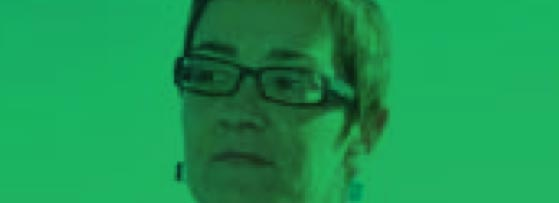
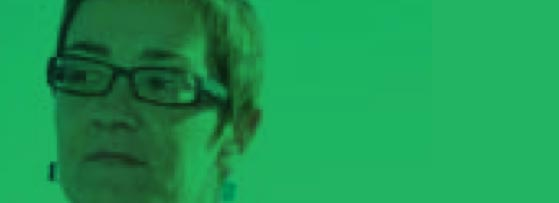
Añadir imagen y nombre el la caja de salutaciones

diff --git a/css/estilos.css b/css/estilos.css
@@ -77,12 +77,12 @@ section .secciones{margin:0 10px;}
 /* line 35 : /Users/jordiimac/Documents/FQU/css/bp1.styl */
 
 @media -stylus-debug-info{filename{font-family:file\:\/\/\/Users\/jordiimac\/Documents\/FQU\/css\/bp1\.styl}line{font-family:\0000335}}
-section .secciones .salutaciones .titulo{color:rgba(0,0,0,0.5);font-size:.8em;font-weight:300;margin:10px 0;text-align:center;text-transform:uppercase;position:relative;}
+section .secciones .salutaciones .titulo{color:rgba(0,0,0,0.3);font-size:.8em;font-weight:300;margin:10px 0;text-align:center;text-transform:uppercase;position:relative;}
 
 /* line 43 : /Users/jordiimac/Documents/FQU/css/bp1.styl */
 
 @media -stylus-debug-info{filename{font-family:file\:\/\/\/Users\/jordiimac\/Documents\/FQU\/css\/bp1\.styl}line{font-family:\0000343}}
-section .secciones .salutaciones .titulo .linea{background:rgba(0,0,0,0.5);display:block;height:1px;position:absolute;top:10px;width:100%;z-index:1}
+section .secciones .salutaciones .titulo .linea{background:rgba(0,0,0,0.3);display:block;height:1px;position:absolute;top:10px;width:100%;z-index:1}
 
 /* line 51 : /Users/jordiimac/Documents/FQU/css/bp1.styl */
 
@@ -92,99 +92,76 @@ section .secciones .salutaciones .titulo .texto{background:#9fc1e0;padding:0 15p
 /* line 56 : /Users/jordiimac/Documents/FQU/css/bp1.styl */
 
 @media -stylus-debug-info{filename{font-family:file\:\/\/\/Users\/jordiimac\/Documents\/FQU\/css\/bp1\.styl}line{font-family:\0000356}}
-section .secciones .salutaciones .salutacion{margin:0 10px 15px K;width:auto;}
+section .secciones .salutaciones .salutacion{position:relative;width:auto;}
 
 /* line 59 : /Users/jordiimac/Documents/FQU/css/bp1.styl */
 
 @media -stylus-debug-info{filename{font-family:file\:\/\/\/Users\/jordiimac\/Documents\/FQU\/css\/bp1\.styl}line{font-family:\0000359}}
-section .secciones .salutaciones .salutacion .imagen,section .secciones .salutaciones .salutacion .texto{background:#fff;height:auto;padding:10px;width:100%;}
+section .secciones .salutaciones .salutacion .imagen{background-image:url("../img/salutacions/alcaldesa.jpg");background-position:0 0;background-repeat:no-repeat;background-size:100% auto;width:auto;height:100px;}
 
-/* line 65 : /Users/jordiimac/Documents/FQU/css/bp1.styl */
+/* line 66 : /Users/jordiimac/Documents/FQU/css/bp1.styl */
 
-@media -stylus-debug-info{filename{font-family:file\:\/\/\/Users\/jordiimac\/Documents\/FQU\/css\/bp1\.styl}line{font-family:\0000365}}
-section .secciones .salutaciones .salutacion .imagen h2,section .secciones .salutaciones .salutacion .texto h2{color:#939393;font-size:1.2em;font-style:italic;font-weight:bigger;padding:0 0 10px;text-align:center;text-transform:uppercase}
+@media -stylus-debug-info{filename{font-family:file\:\/\/\/Users\/jordiimac\/Documents\/FQU\/css\/bp1\.styl}line{font-family:\0000366}}
+section .secciones .salutaciones .salutacion .imagen:after{color:#fff;content:'Núria Balagué Raga';font-style:italic;text-shadow:0 0 1px rgba(0,0,0,0.8);position:absolute;right:10px;top:5px}
 
-/* line 73 : /Users/jordiimac/Documents/FQU/css/bp1.styl */
+/* line 74 : /Users/jordiimac/Documents/FQU/css/bp1.styl */
 
-@media -stylus-debug-info{filename{font-family:file\:\/\/\/Users\/jordiimac\/Documents\/FQU\/css\/bp1\.styl}line{font-family:\0000373}}
-section .secciones .salutaciones .salutacion .imagen h3,section .secciones .salutaciones .salutacion .texto h3{border-top:1px solid rgba(147,147,147,0.3);color:#939393;font-size:.8em;font-weight:300;padding:5px 0 10px 0;text-align:center}
+@media -stylus-debug-info{filename{font-family:file\:\/\/\/Users\/jordiimac\/Documents\/FQU\/css\/bp1\.styl}line{font-family:\0000374}}
+section .secciones .salutaciones .salutacion .texto{background:#fff;height:auto;padding:10px;width:100%;}
 
-/* line 81 : /Users/jordiimac/Documents/FQU/css/bp1.styl */
+/* line 79 : /Users/jordiimac/Documents/FQU/css/bp1.styl */
 
-@media -stylus-debug-info{filename{font-family:file\:\/\/\/Users\/jordiimac\/Documents\/FQU\/css\/bp1\.styl}line{font-family:\0000381}}
+@media -stylus-debug-info{filename{font-family:file\:\/\/\/Users\/jordiimac\/Documents\/FQU\/css\/bp1\.styl}line{font-family:\0000379}}
+section .secciones .salutaciones .salutacion .texto h2{color:#939393;font-size:1.2em;font-style:italic;font-weight:bigger;padding:0 0 10px;text-align:center;text-transform:uppercase}
+
+/* line 87 : /Users/jordiimac/Documents/FQU/css/bp1.styl */
+
+@media -stylus-debug-info{filename{font-family:file\:\/\/\/Users\/jordiimac\/Documents\/FQU\/css\/bp1\.styl}line{font-family:\0000387}}
+section .secciones .salutaciones .salutacion .texto h3{border-top:1px solid rgba(147,147,147,0.3);color:#939393;font-size:.8em;font-weight:300;margin:0 5px;padding:5px 0 10px 0;text-align:center}
+
+/* line 96 : /Users/jordiimac/Documents/FQU/css/bp1.styl */
+
+@media -stylus-debug-info{filename{font-family:file\:\/\/\/Users\/jordiimac\/Documents\/FQU\/css\/bp1\.styl}line{font-family:\0000396}}
 .bg{background:#9fc1e0;height:100%;left:0;position:fixed;top:0;width:100%;z-index:-50}
-
-/* line 89 : /Users/jordiimac/Documents/FQU/css/bp1.styl */
-
-@media -stylus-debug-info{filename{font-family:file\:\/\/\/Users\/jordiimac\/Documents\/FQU\/css\/bp1\.styl}line{font-family:\0000389}}
-.invisible{display:none}
-
-/* line 91 : /Users/jordiimac/Documents/FQU/css/bp1.styl */
-
-@media -stylus-debug-info{filename{font-family:file\:\/\/\/Users\/jordiimac\/Documents\/FQU\/css\/bp1\.styl}line{font-family:\0000391}}
-.menu{background:#5a6171;border-radius:5px;bottom:0;color:#fff;left:0;margin:0 auto .4em auto;position:fixed;right:0;width:97%;z-index:20;animation:animacionMenu 1s 1;-webkit-animation:animacionMenu 1s 1;}
 
 /* line 104 : /Users/jordiimac/Documents/FQU/css/bp1.styl */
 
 @media -stylus-debug-info{filename{font-family:file\:\/\/\/Users\/jordiimac\/Documents\/FQU\/css\/bp1\.styl}line{font-family:\00003104}}
+.invisible{display:none}
 
-/* line 105 : /Users/jordiimac/Documents/FQU/css/bp1.styl */
+/* line 106 : /Users/jordiimac/Documents/FQU/css/bp1.styl */
 
-@media -stylus-debug-info{filename{font-family:file\:\/\/\/Users\/jordiimac\/Documents\/FQU\/css\/bp1\.styl}line{font-family:\00003105}}
-.menu .botones .botonMenu{display:inline-block;line-height:2em;text-align:center;vertical-align:bottom;width:32%;}
+@media -stylus-debug-info{filename{font-family:file\:\/\/\/Users\/jordiimac\/Documents\/FQU\/css\/bp1\.styl}line{font-family:\00003106}}
+.menu{background:#5a6171;border-radius:5px;bottom:0;color:#fff;left:0;margin:0 auto .4em auto;position:fixed;right:0;width:97%;z-index:20;animation:animacionMenu 1s 1;-webkit-animation:animacionMenu 1s 1;}
 
-/* line 111 : /Users/jordiimac/Documents/FQU/css/bp1.styl */
+/* line 119 : /Users/jordiimac/Documents/FQU/css/bp1.styl */
 
-@media -stylus-debug-info{filename{font-family:file\:\/\/\/Users\/jordiimac\/Documents\/FQU\/css\/bp1\.styl}line{font-family:\00003111}}
-.menu .botones .botonMenu a{color:#fff;text-decoration:none}
-
-/* line 114 : /Users/jordiimac/Documents/FQU/css/bp1.styl */
-
-@media -stylus-debug-info{filename{font-family:file\:\/\/\/Users\/jordiimac\/Documents\/FQU\/css\/bp1\.styl}line{font-family:\00003114}}
-.menu .botones .botonMenu .compartir{font-size:1.2em;}
-
-/* line 116 : /Users/jordiimac/Documents/FQU/css/bp1.styl */
-
-@media -stylus-debug-info{filename{font-family:file\:\/\/\/Users\/jordiimac\/Documents\/FQU\/css\/bp1\.styl}line{font-family:\00003116}}
-.menu .botones .botonMenu .compartir:after{content:'\e602';font-family:icono;font-size:.9em}
+@media -stylus-debug-info{filename{font-family:file\:\/\/\/Users\/jordiimac\/Documents\/FQU\/css\/bp1\.styl}line{font-family:\00003119}}
 
 /* line 120 : /Users/jordiimac/Documents/FQU/css/bp1.styl */
 
 @media -stylus-debug-info{filename{font-family:file\:\/\/\/Users\/jordiimac\/Documents\/FQU\/css\/bp1\.styl}line{font-family:\00003120}}
-.menu .botones .botonMenu .compartir:active{color:rgba(255,255,255,0.3)}
+.menu .botones .botonMenu{display:inline-block;line-height:2em;text-align:center;vertical-align:bottom;width:32%;}
 
-/* line 122 : /Users/jordiimac/Documents/FQU/css/bp1.styl */
+/* line 126 : /Users/jordiimac/Documents/FQU/css/bp1.styl */
 
-@media -stylus-debug-info{filename{font-family:file\:\/\/\/Users\/jordiimac\/Documents\/FQU\/css\/bp1\.styl}line{font-family:\00003122}}
-
-/* line 123 : /Users/jordiimac/Documents/FQU/css/bp1.styl */
-
-@media -stylus-debug-info{filename{font-family:file\:\/\/\/Users\/jordiimac\/Documents\/FQU\/css\/bp1\.styl}line{font-family:\00003123}}
-.menu .botones .botonMenu .mapa:after{content:'\e600';font-family:icono;font-size:1.2em}
-
-/* line 127 : /Users/jordiimac/Documents/FQU/css/bp1.styl */
-
-@media -stylus-debug-info{filename{font-family:file\:\/\/\/Users\/jordiimac\/Documents\/FQU\/css\/bp1\.styl}line{font-family:\00003127}}
-.menu .botones .botonMenu .mapa:active{color:rgba(255,255,255,0.3)}
+@media -stylus-debug-info{filename{font-family:file\:\/\/\/Users\/jordiimac\/Documents\/FQU\/css\/bp1\.styl}line{font-family:\00003126}}
+.menu .botones .botonMenu a{color:#fff;text-decoration:none}
 
 /* line 129 : /Users/jordiimac/Documents/FQU/css/bp1.styl */
 
 @media -stylus-debug-info{filename{font-family:file\:\/\/\/Users\/jordiimac\/Documents\/FQU\/css\/bp1\.styl}line{font-family:\00003129}}
-.menu .botones .botonMenu .menuResizer{font-weight:400;}
+.menu .botones .botonMenu .compartir{font-size:1.2em;}
 
 /* line 131 : /Users/jordiimac/Documents/FQU/css/bp1.styl */
 
 @media -stylus-debug-info{filename{font-family:file\:\/\/\/Users\/jordiimac\/Documents\/FQU\/css\/bp1\.styl}line{font-family:\00003131}}
-.menu .botones .botonMenu .menuResizer:active{color:rgba(255,255,255,0.3)}
+.menu .botones .botonMenu .compartir:after{content:'\e602';font-family:icono;font-size:.9em}
 
-/* line 133 : /Users/jordiimac/Documents/FQU/css/bp1.styl */
+/* line 135 : /Users/jordiimac/Documents/FQU/css/bp1.styl */
 
-@media -stylus-debug-info{filename{font-family:file\:\/\/\/Users\/jordiimac\/Documents\/FQU\/css\/bp1\.styl}line{font-family:\00003133}}
-
-/* line 134 : /Users/jordiimac/Documents/FQU/css/bp1.styl */
-
-@media -stylus-debug-info{filename{font-family:file\:\/\/\/Users\/jordiimac\/Documents\/FQU\/css\/bp1\.styl}line{font-family:\00003134}}
-.menu .botones .botonMenu .menuResizer .aumentar:after{content:'A';font-size:1em}
+@media -stylus-debug-info{filename{font-family:file\:\/\/\/Users\/jordiimac\/Documents\/FQU\/css\/bp1\.styl}line{font-family:\00003135}}
+.menu .botones .botonMenu .compartir:active{color:rgba(255,255,255,0.3)}
 
 /* line 137 : /Users/jordiimac/Documents/FQU/css/bp1.styl */
 
@@ -193,58 +170,91 @@ section .secciones .salutaciones .salutacion .imagen h3,section .secciones .salu
 /* line 138 : /Users/jordiimac/Documents/FQU/css/bp1.styl */
 
 @media -stylus-debug-info{filename{font-family:file\:\/\/\/Users\/jordiimac\/Documents\/FQU\/css\/bp1\.styl}line{font-family:\00003138}}
-.menu .botones .botonMenu .menuResizer .disminuir:after{content:'A';font-size:.6em}
+.menu .botones .botonMenu .mapa:after{content:'\e600';font-family:icono;font-size:1.2em}
 
-/* line 141 : /Users/jordiimac/Documents/FQU/css/bp1.styl */
+/* line 142 : /Users/jordiimac/Documents/FQU/css/bp1.styl */
 
-@media -stylus-debug-info{filename{font-family:file\:\/\/\/Users\/jordiimac\/Documents\/FQU\/css\/bp1\.styl}line{font-family:\00003141}}
-.menu .resizer{background:rgba(0,0,0,0.2);border-top:1px solid rgba(40,49,72,0.4);box-shadow:0 1px 0 rgba(255,255,255,0.1);color:rgba(255,255,255,0.7);padding:.4em 0;}
+@media -stylus-debug-info{filename{font-family:file\:\/\/\/Users\/jordiimac\/Documents\/FQU\/css\/bp1\.styl}line{font-family:\00003142}}
+.menu .botones .botonMenu .mapa:active{color:rgba(255,255,255,0.3)}
 
-/* line 147 : /Users/jordiimac/Documents/FQU/css/bp1.styl */
+/* line 144 : /Users/jordiimac/Documents/FQU/css/bp1.styl */
 
-@media -stylus-debug-info{filename{font-family:file\:\/\/\/Users\/jordiimac\/Documents\/FQU\/css\/bp1\.styl}line{font-family:\00003147}}
-.menu .resizer .botonResizer{display:inline-block;font-weight:400;text-align:center;width:49%;}
+@media -stylus-debug-info{filename{font-family:file\:\/\/\/Users\/jordiimac\/Documents\/FQU\/css\/bp1\.styl}line{font-family:\00003144}}
+.menu .botones .botonMenu .menuResizer{font-weight:400;}
+
+/* line 146 : /Users/jordiimac/Documents/FQU/css/bp1.styl */
+
+@media -stylus-debug-info{filename{font-family:file\:\/\/\/Users\/jordiimac\/Documents\/FQU\/css\/bp1\.styl}line{font-family:\00003146}}
+.menu .botones .botonMenu .menuResizer:active{color:rgba(255,255,255,0.3)}
+
+/* line 148 : /Users/jordiimac/Documents/FQU/css/bp1.styl */
+
+@media -stylus-debug-info{filename{font-family:file\:\/\/\/Users\/jordiimac\/Documents\/FQU\/css\/bp1\.styl}line{font-family:\00003148}}
+
+/* line 149 : /Users/jordiimac/Documents/FQU/css/bp1.styl */
+
+@media -stylus-debug-info{filename{font-family:file\:\/\/\/Users\/jordiimac\/Documents\/FQU\/css\/bp1\.styl}line{font-family:\00003149}}
+.menu .botones .botonMenu .menuResizer .aumentar:after{content:'A';font-size:1em}
 
 /* line 152 : /Users/jordiimac/Documents/FQU/css/bp1.styl */
 
 @media -stylus-debug-info{filename{font-family:file\:\/\/\/Users\/jordiimac\/Documents\/FQU\/css\/bp1\.styl}line{font-family:\00003152}}
+
+/* line 153 : /Users/jordiimac/Documents/FQU/css/bp1.styl */
+
+@media -stylus-debug-info{filename{font-family:file\:\/\/\/Users\/jordiimac\/Documents\/FQU\/css\/bp1\.styl}line{font-family:\00003153}}
+.menu .botones .botonMenu .menuResizer .disminuir:after{content:'A';font-size:.6em}
+
+/* line 156 : /Users/jordiimac/Documents/FQU/css/bp1.styl */
+
+@media -stylus-debug-info{filename{font-family:file\:\/\/\/Users\/jordiimac\/Documents\/FQU\/css\/bp1\.styl}line{font-family:\00003156}}
+.menu .resizer{background:rgba(0,0,0,0.2);border-top:1px solid rgba(40,49,72,0.4);box-shadow:0 1px 0 rgba(255,255,255,0.1);color:rgba(255,255,255,0.7);padding:.4em 0;}
+
+/* line 162 : /Users/jordiimac/Documents/FQU/css/bp1.styl */
+
+@media -stylus-debug-info{filename{font-family:file\:\/\/\/Users\/jordiimac\/Documents\/FQU\/css\/bp1\.styl}line{font-family:\00003162}}
+.menu .resizer .botonResizer{display:inline-block;font-weight:400;text-align:center;width:49%;}
+
+/* line 167 : /Users/jordiimac/Documents/FQU/css/bp1.styl */
+
+@media -stylus-debug-info{filename{font-family:file\:\/\/\/Users\/jordiimac\/Documents\/FQU\/css\/bp1\.styl}line{font-family:\00003167}}
 .menu .resizer .botonResizer .disminuir{border-right:1px solid rgba(40,49,72,0.4);box-shadow:1px 0 0 rgba(255,255,255,0.1);}
-
-/* line 155 : /Users/jordiimac/Documents/FQU/css/bp1.styl */
-
-@media -stylus-debug-info{filename{font-family:file\:\/\/\/Users\/jordiimac\/Documents\/FQU\/css\/bp1\.styl}line{font-family:\00003155}}
-.menu .resizer .botonResizer .disminuir:after{content:'A';font-size:.7em}
-
-/* line 158 : /Users/jordiimac/Documents/FQU/css/bp1.styl */
-
-@media -stylus-debug-info{filename{font-family:file\:\/\/\/Users\/jordiimac\/Documents\/FQU\/css\/bp1\.styl}line{font-family:\00003158}}
-.menu .resizer .botonResizer .disminuir:active{color:rgba(255,255,255,0.3)}
-
-/* line 160 : /Users/jordiimac/Documents/FQU/css/bp1.styl */
-
-@media -stylus-debug-info{filename{font-family:file\:\/\/\/Users\/jordiimac\/Documents\/FQU\/css\/bp1\.styl}line{font-family:\00003160}}
-
-/* line 161 : /Users/jordiimac/Documents/FQU/css/bp1.styl */
-
-@media -stylus-debug-info{filename{font-family:file\:\/\/\/Users\/jordiimac\/Documents\/FQU\/css\/bp1\.styl}line{font-family:\00003161}}
-.menu .resizer .botonResizer .aumentar:after{content:'A';font-size:1.2em}
-
-/* line 164 : /Users/jordiimac/Documents/FQU/css/bp1.styl */
-
-@media -stylus-debug-info{filename{font-family:file\:\/\/\/Users\/jordiimac\/Documents\/FQU\/css\/bp1\.styl}line{font-family:\00003164}}
-.menu .resizer .botonResizer .aumentar:active{color:rgba(255,255,255,0.3)}
-
-/* line 166 : /Users/jordiimac/Documents/FQU/css/bp1.styl */
-
-@media -stylus-debug-info{filename{font-family:file\:\/\/\/Users\/jordiimac\/Documents\/FQU\/css\/bp1\.styl}line{font-family:\00003166}}
-.menu .social{background:rgba(0,0,0,0.2);border-top:1px solid rgba(40,49,72,0.45);padding:.8em 0 .6em 0;}
 
 /* line 170 : /Users/jordiimac/Documents/FQU/css/bp1.styl */
 
 @media -stylus-debug-info{filename{font-family:file\:\/\/\/Users\/jordiimac\/Documents\/FQU\/css\/bp1\.styl}line{font-family:\00003170}}
-.menu .social .botonSocial{display:inline-block;font-weight:400;text-align:center;width:49%;}
+.menu .resizer .botonResizer .disminuir:after{content:'A';font-size:.7em}
+
+/* line 173 : /Users/jordiimac/Documents/FQU/css/bp1.styl */
+
+@media -stylus-debug-info{filename{font-family:file\:\/\/\/Users\/jordiimac\/Documents\/FQU\/css\/bp1\.styl}line{font-family:\00003173}}
+.menu .resizer .botonResizer .disminuir:active{color:rgba(255,255,255,0.3)}
 
 /* line 175 : /Users/jordiimac/Documents/FQU/css/bp1.styl */
 
 @media -stylus-debug-info{filename{font-family:file\:\/\/\/Users\/jordiimac\/Documents\/FQU\/css\/bp1\.styl}line{font-family:\00003175}}
+
+/* line 176 : /Users/jordiimac/Documents/FQU/css/bp1.styl */
+
+@media -stylus-debug-info{filename{font-family:file\:\/\/\/Users\/jordiimac\/Documents\/FQU\/css\/bp1\.styl}line{font-family:\00003176}}
+.menu .resizer .botonResizer .aumentar:after{content:'A';font-size:1.2em}
+
+/* line 179 : /Users/jordiimac/Documents/FQU/css/bp1.styl */
+
+@media -stylus-debug-info{filename{font-family:file\:\/\/\/Users\/jordiimac\/Documents\/FQU\/css\/bp1\.styl}line{font-family:\00003179}}
+.menu .resizer .botonResizer .aumentar:active{color:rgba(255,255,255,0.3)}
+
+/* line 181 : /Users/jordiimac/Documents/FQU/css/bp1.styl */
+
+@media -stylus-debug-info{filename{font-family:file\:\/\/\/Users\/jordiimac\/Documents\/FQU\/css\/bp1\.styl}line{font-family:\00003181}}
+.menu .social{background:rgba(0,0,0,0.2);border-top:1px solid rgba(40,49,72,0.45);padding:.8em 0 .6em 0;}
+
+/* line 185 : /Users/jordiimac/Documents/FQU/css/bp1.styl */
+
+@media -stylus-debug-info{filename{font-family:file\:\/\/\/Users\/jordiimac\/Documents\/FQU\/css\/bp1\.styl}line{font-family:\00003185}}
+.menu .social .botonSocial{display:inline-block;font-weight:400;text-align:center;width:49%;}
+
+/* line 190 : /Users/jordiimac/Documents/FQU/css/bp1.styl */
+
+@media -stylus-debug-info{filename{font-family:file\:\/\/\/Users\/jordiimac\/Documents\/FQU\/css\/bp1\.styl}line{font-family:\00003190}}
 .menu .social .botonSocial .twitter{margin:0 0 0 1.5em}
